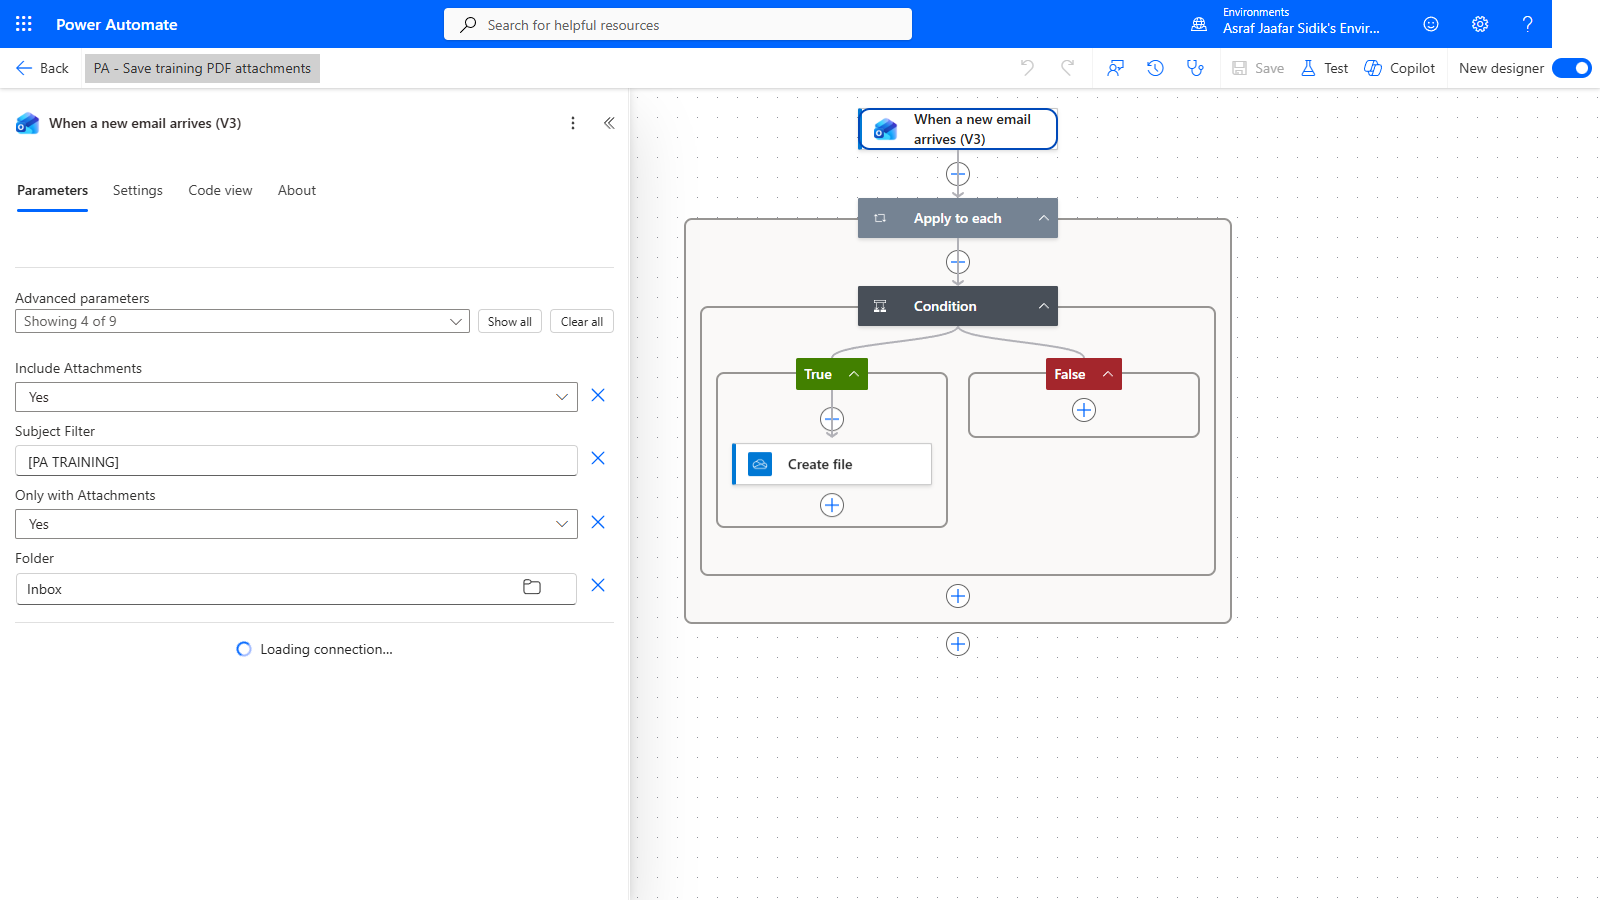
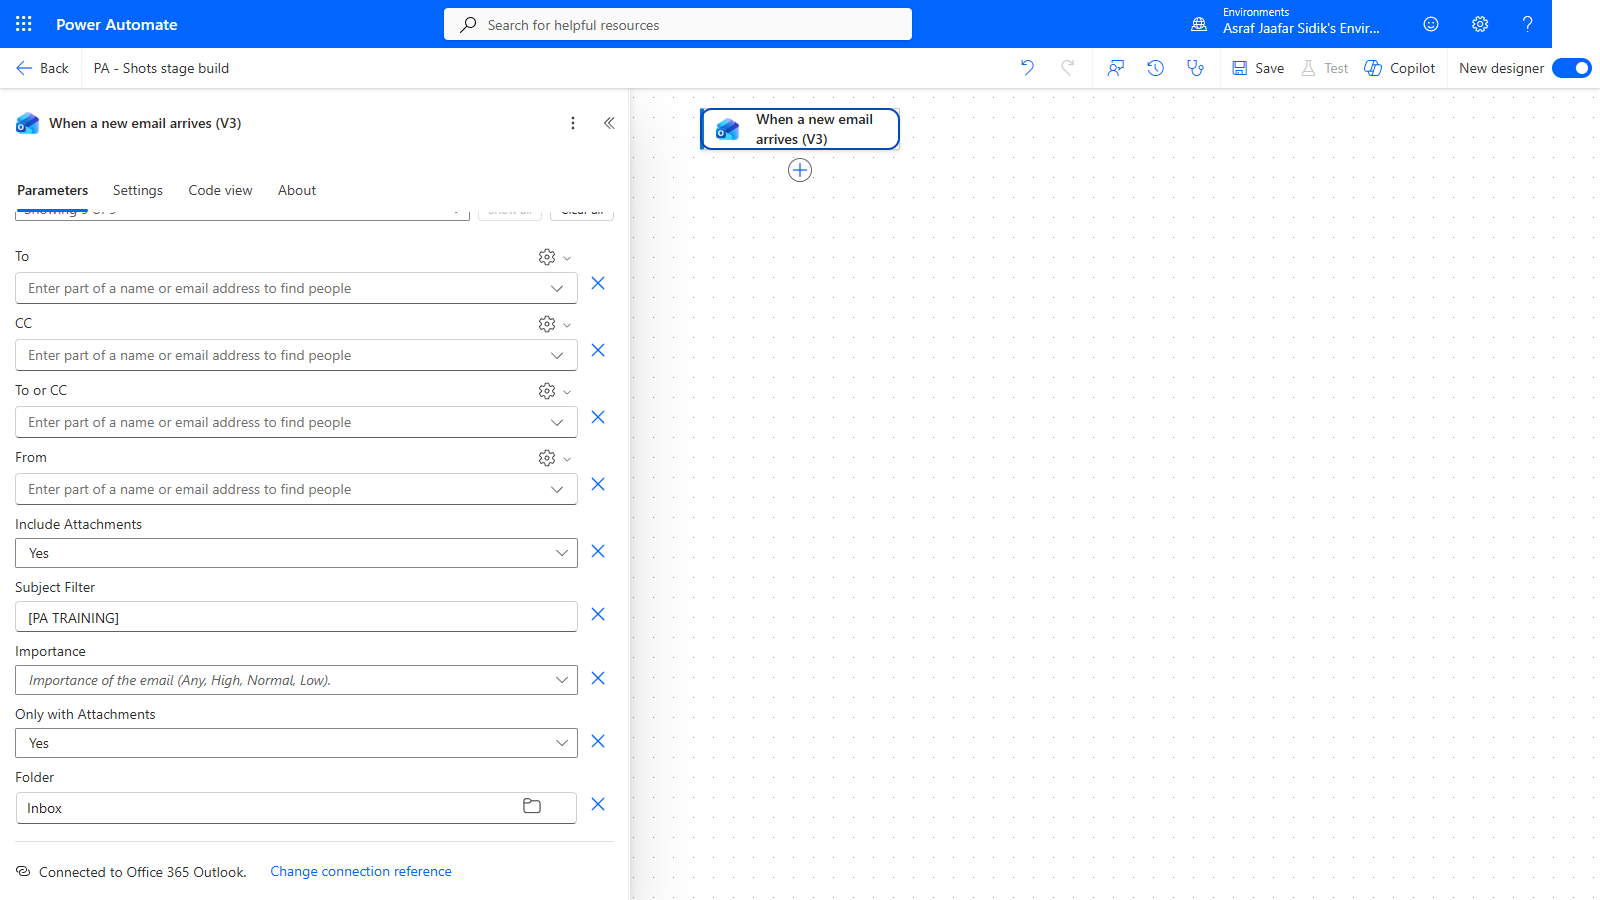
Recapture Chapter 3 stage-by-stage screenshots

diff --git a/_design/shots/NOTES.md b/_design/shots/NOTES.md
@@ -34,4 +34,7 @@
 - Round two, 08: The saved meetings loop already follows only Get calendar view of events (V3). Busy day waits for Apply to each, Get current weather and Apply to each 1, each Succeeded. Re-selected the two side-branch dependencies and saved; checker reports 0 errors and 0 warnings. The current designer still routes the side-branch lines toward the meetings loop instead of displaying three lines into Busy day. 08-07 shows the expanded Run after settings documenting the correct dependencies. Flow remains OFF; no test.
 - Round two, 11B: Replaced the retired mobile notification with Teams Post message in a chat or channel, Flow bot / Chat with Flow bot, recipient the signed-in training account, and Reminder: followed by the trigger Message token. Saved and verified OFF without testing. This supersedes the round-one mobile action noted above.
 
-- Round four, 03-02-trigger.png, 03-03-add-action.png, 03-03-apply-to-each.png, 03-04-see-more.png, 03-04-search-name.png, 03-04-condition.png, 03-05-create-file.png, 03-08-classic-view.png, 03-08-new-view-toggle.png: expected the unsaved stage build and existing two-attachment run views; make.powerautomate.com showed ERR_TUNNEL_CONNECTION_FAILED under the workspace network policy. No captures overwritten; no flow created, saved, run or tested, and no email sent. My flows cleanup could not be checked because the site was inaccessible.
+- Round four, 03-04-see-more.png and 03-04-search-name.png: expected the email-trigger group in the dynamic content picker; the UI also lists a Parameters group above it, and the trigger link reads See more (39).
+- Round four, 03-04-condition.png: expected one filled comparison; the UI adds an empty comparison placeholder row and truncates the Attachments Name token label.
+- Round four, 03-05-create-file.png: expected full Attachments Name and Attachments Content labels; the UI truncates both token chips with ellipses, while their picker labels confirm the selected values.
+- Round four, 03-08-classic-view.png: expected True and False branches; the classic run view labels them If yes and If no and marks the skipped Create file with a grey skip icon.
